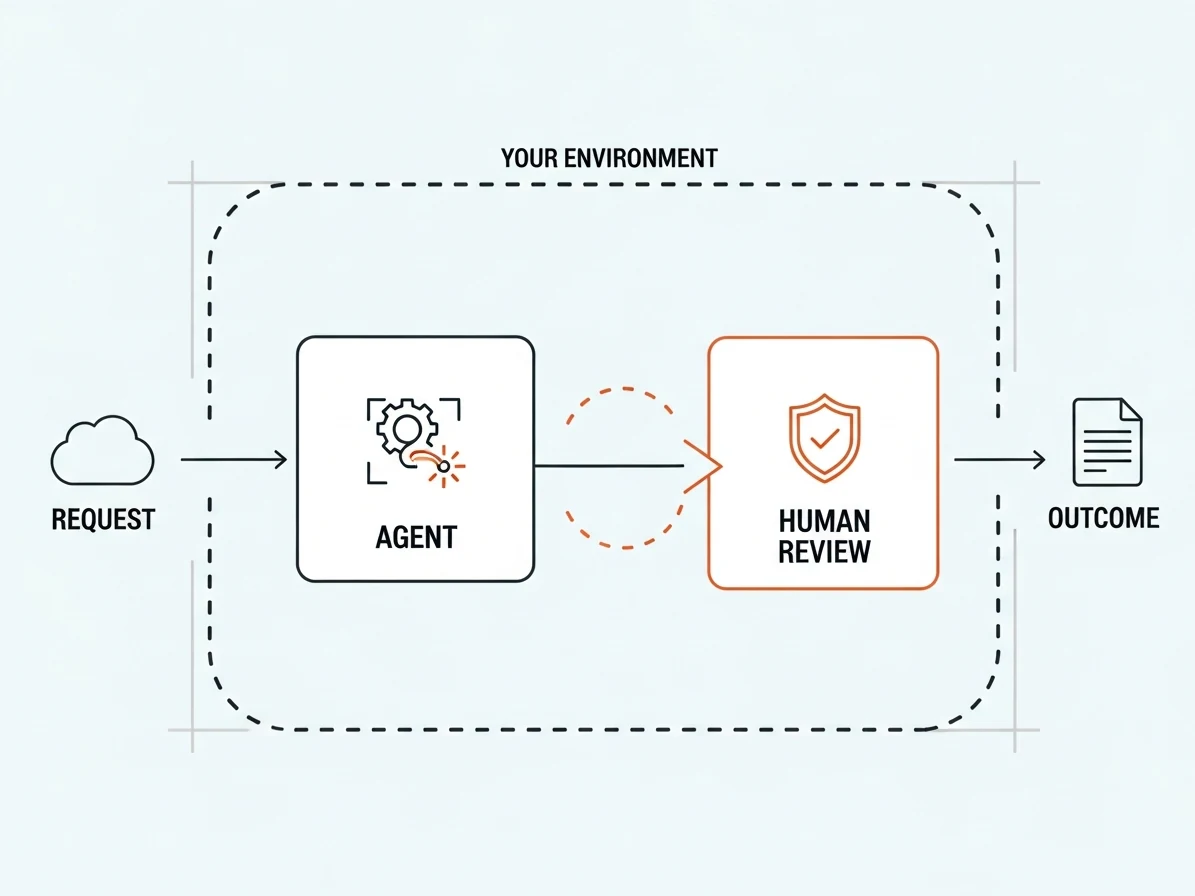
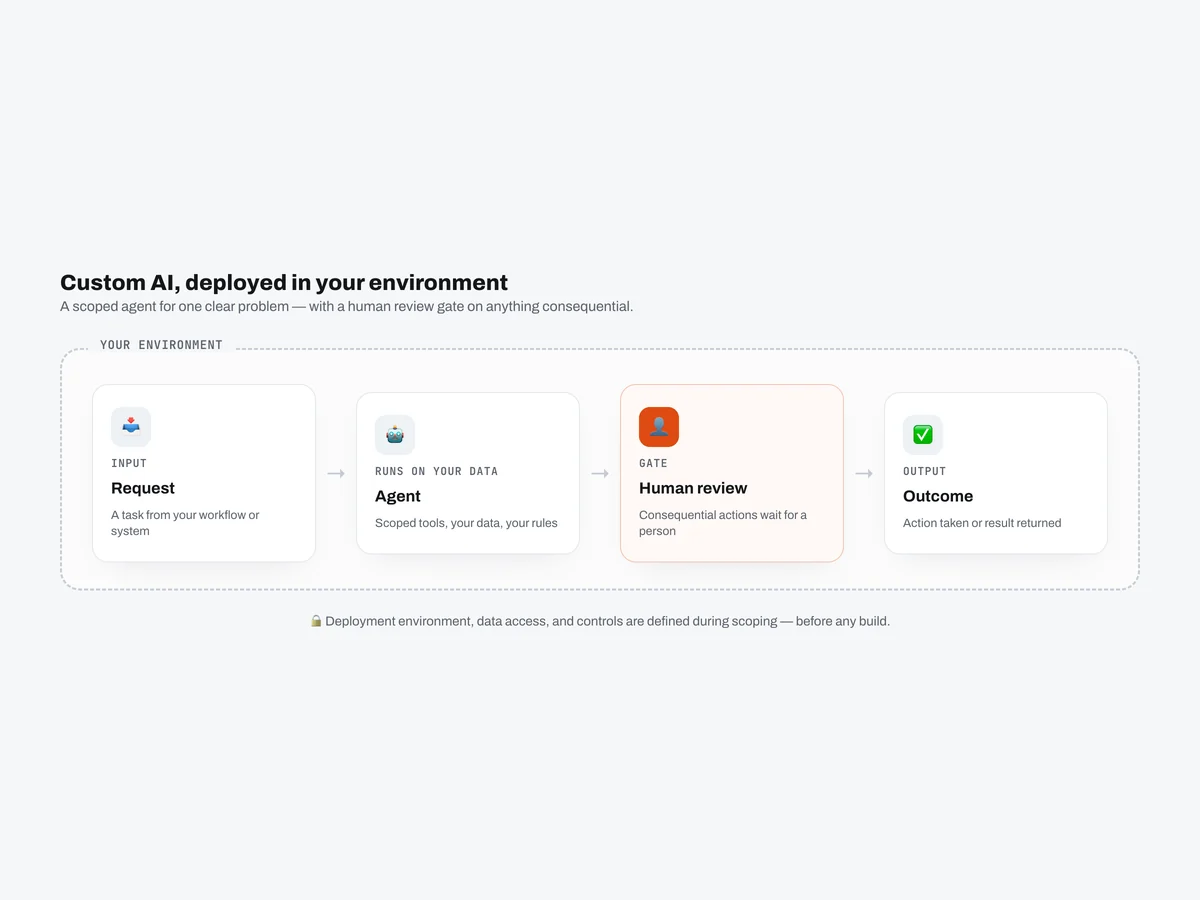
feat(site): homepage copy rewrite (S4/S8) + credible product imagery (S3/S1/M4)
Copy (Cyrus-routed, approved 4-step model):
- S4: homepage "how it works" rewritten to Brief in → Alyvon routes → Director
  assigns & reviews → File out, with "Alyvon" as the orchestrator name; fixed the
  contradicting board image alt text.
- S8: trimmed the homepage disclaimer wall to a single page-level note; diagram
  captions already read "Illustrative." (not "Product UI").

Imagery (Creative-routed) — hand-built, on-brand (#F6F7F9, orange, Archivo), with
real typeset copy and fake/illustrative data (no customer PII); coded HTML/CSS →
headless-Chrome → WebP, each 20–30KB (well under budget):
- S3 Marketing Hub: ai-employee-chat (phone, real thread + human-escalation),
  crm-contact-record (contact record + pipeline + activity), automations-flow.
  Replaces the grey wireframes Avery flagged as looking fake.
- S1 Analytics: dashboard-reporting-layer (replaces the stock photo), and the
  four-part-system and custom-ai diagrams rebuilt on the neutral surface.
- M4 Creative: groups/creative.webp (ad-format spread) — the group page now uses
  its own hero and the silent wrong-image fallback was removed (a missing hero no
  longer renders another page's image).
- Engineering hero: product-engineering.webp rebuilt as a GitHub merge window
  (per operator suggestion; fake repo/PR, no internal data).

Verified: npm run test (9/9), npm run lint (0 errors), npm run build (33/33).

diff --git a/app/page.tsx b/app/page.tsx
@@ -134,31 +134,30 @@ export default function Home() {
           <div className="flex flex-col gap-3 lg:order-1">
             <MediaFrame
               src="/images/workforce/board-run.webp"
-              alt="The Alyvon board: a Chief of Staff routes one brief to multiple Directors working in parallel"
+              alt="The Alyvon board: Alyvon, the Chief of Staff, routes one brief to the right Directors working in parallel"
               aspect="4:3"
               priority
               sizes="(min-width: 1024px) 560px, 100vw"
             />
-            <IllustrativeCaption>Product UI. Illustrative data.</IllustrativeCaption>
           </div>
           <div className="flex flex-col gap-4 lg:order-2">
-            <h2 className="text-display-m text-text-primary">Brief in. Director routes. File out.</h2>
+            <h2 className="text-display-m text-text-primary">Brief in. Alyvon routes. File out.</h2>
             <ol className="flex flex-col gap-4 text-body-l text-text-primary">
               <li>
-                <strong>Brief in</strong> — Tell a Director what you need, in plain language. No prompt
+                <strong>Brief in</strong> — Tell Alyvon what you need, in plain language. No prompt
                 engineering, no back-and-forth with a chatbot.
               </li>
               <li>
-                <strong>Director routes</strong> — The Director assigns it to the right specialist and
-                owns it end to end, not a ticket in a queue.
+                <strong>Alyvon routes</strong> — Alyvon, your Chief of Staff, sends the brief to the
+                right Director — across departments when the work spans more than one.
               </li>
               <li>
-                <strong>File out</strong> — You get a finished, ready-to-use deliverable, not a draft
-                that still needs assembly.
+                <strong>The Director assigns and reviews</strong> — a Director assigns the right
+                specialist and checks the work before it reaches you, so nothing lands unreviewed.
               </li>
               <li>
-                <strong>You approve</strong> — Anything that sends, publishes, or spends waits for your
-                go-ahead.
+                <strong>File out</strong> — you get a finished, ready-to-use deliverable. Anything that
+                sends, publishes, or spends still waits for your go-ahead.
               </li>
             </ol>
           </div>
@@ -238,7 +237,6 @@ export default function Home() {
               aspect="4:3"
               sizes="(min-width: 1024px) 560px, 100vw"
             />
-            <IllustrativeCaption>Product UI. Illustrative data.</IllustrativeCaption>
           </div>
         </div>
       </Section>
@@ -254,7 +252,6 @@ export default function Home() {
               containerClassName="mx-auto max-w-[300px]"
               sizes="(min-width: 1024px) 300px, 60vw"
             />
-            <IllustrativeCaption>Product UI. Illustrative data.</IllustrativeCaption>
           </div>
           <div className="flex flex-col gap-4 lg:order-2">
             <h2 className="text-display-m text-text-primary">

diff --git a/components/marketing/workforce-group-page.tsx b/components/marketing/workforce-group-page.tsx
@@ -78,7 +78,12 @@ const GROUP_HERO: Record<string, { src: string; alt: string; caption: string }> 
   },
   "product-engineering": {
     src: "/images/workforce/groups/product-engineering.webp",
-    alt: "A GitHub pull-request view with a diff and a Merge button",
+    alt: "A GitHub pull request ready to merge — Open, checks passed, with a Confirm merge button",
+    caption: "Illustrative.",
+  },
+  creative: {
+    src: "/images/workforce/groups/creative.webp",
+    alt: "A spread of ad formats — social, launch, display, story, and video — each sized for where it runs",
     caption: "Illustrative.",
   },
 }
@@ -109,18 +114,18 @@ export function WorkforceGroupPage({ slug }: { slug: string }) {
         subhead={group.subhead}
         actions={trialActions(`${slug}_hero`)}
         visual={
-          <div className="flex flex-col gap-3">
-            <MediaFrame
-              src={hero ? hero.src : "/images/workforce/library-files.webp"}
-              alt={hero ? hero.alt : `Finished files produced by the ${group.label} group`}
-              aspect="4:3"
-              priority
-              sizes="(min-width: 1024px) 520px, 100vw"
-            />
-            <IllustrativeCaption>
-              {hero ? hero.caption : "Product UI. Illustrative data."}
-            </IllustrativeCaption>
-          </div>
+          hero ? (
+            <div className="flex flex-col gap-3">
+              <MediaFrame
+                src={hero.src}
+                alt={hero.alt}
+                aspect="4:3"
+                priority
+                sizes="(min-width: 1024px) 520px, 100vw"
+              />
+              <IllustrativeCaption>{hero.caption}</IllustrativeCaption>
+            </div>
+          ) : undefined
         }
       />
 
